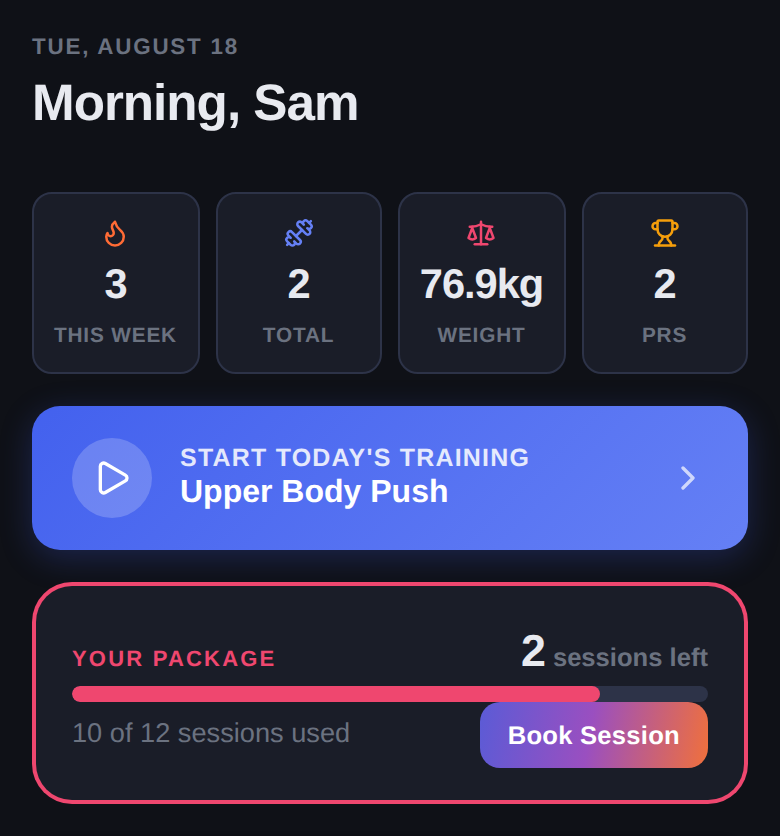
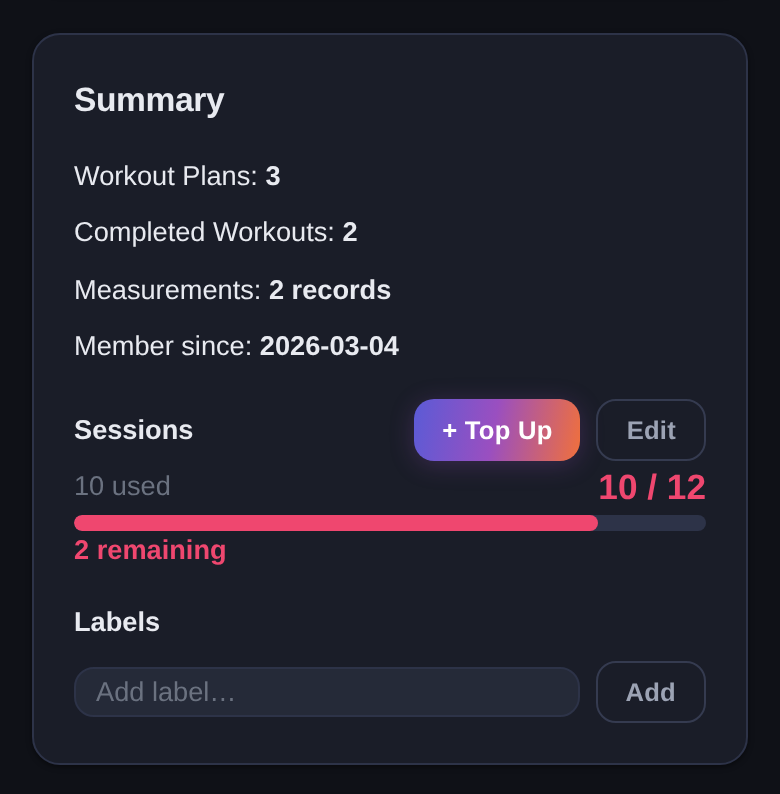
Point landing images 2 and 3 at the trainer's own screens
Sections 2 and 3 address a coach, but the images showed ClientDashboard's
package card and MyWorkoutsPage — screens that exist only in the client app. A
trainer evaluating the product would not recognise either. Image 2 is now the
session balance and Top Up on ClientDetailPage, image 3 the plan list with
Create Plan on WorkoutPlansPage.

Two more defects the render exposed, both live on the trainer's client detail
page today:
- Latest Body Stats iterated the stat object's own keys and filtered only
  'date', so id and addedBy rendered as measurements: a tile reading 'b2cm'
  labelled 'Id'. Now driven off METRICS, with '--' for unmeasured values.
- Completed Workouts filtered logs on a 'completed' field that no workoutLog
  document has, so it read 0 for every client. Counts saved logs, matching
  how ClientDashboard counts the same thing.

Claude-Session: https://claude.ai/code/session_018VLAxMgaDAUHsB9ZDdDGZn

diff --git a/mock/main.jsx b/mock/main.jsx
@@ -11,14 +11,16 @@
    never mounted by the app and never hot-reloaded into it. */
 import React from 'react';
 import { createRoot } from 'react-dom/client';
-import { MemoryRouter } from 'react-router-dom';
+import { MemoryRouter, Routes, Route } from 'react-router-dom';
 import { AppContext } from '../src/context/AppContext';
 import { ThemeProvider } from '../src/context/ThemeContext';
 import { ToastProvider } from '../src/context/ToastContext';
 import TrainerDashboard from '../src/pages/TrainerDashboard';
 import ClientDashboard from '../src/pages/ClientDashboard';
 import MyWorkoutsPage from '../src/pages/MyWorkoutsPage';
-import { exerciseLibrary } from '../src/data/exercises';
+import WorkoutPlansPage from '../src/pages/WorkoutPlansPage';
+import ClientDetailPage from '../src/pages/ClientDetailPage';
+import { exerciseLibrary, equipmentTypes } from '../src/data/exercises';
 import { localToday, localDateAdd } from '../src/utils/dateUtils';
 import '../src/styles/index.css';
 
@@ -37,7 +39,8 @@ const CLIENTS = [
     totalSessions: 10, sessionOffset: 11, intakeCompleted: true },
   // 2 — Renewal: running low but not yet overdrawn.
   { id: 'c2', role: 'client', name: 'Sam Reid', trainerId: 't1',
-    totalSessions: 12, sessionOffset: 10, intakeCompleted: true },
+    totalSessions: 12, sessionOffset: 10, intakeCompleted: true,
+    age: 34, height: 178, goals: 'Build strength, drop body fat', joinDate: '2026-03-04' },
   // 3 — Churn risk: healthy balance, but no log and no completed session for weeks.
   { id: 'c3', role: 'client', name: 'Jamie Wu', trainerId: 't1',
     totalSessions: 20, sessionOffset: 8, intakeCompleted: true },
@@ -122,6 +125,22 @@ const makeCtx = (currentUser) => ({
   getUnreadCount: () => 0,
   sendMessage: async () => {},
   markMessagesRead: async () => {},
+  addWorkoutPlan: async () => {},
+  updateWorkoutPlan: async () => {},
+  deleteWorkoutPlan: async () => {},
+  addWorkoutLog: async () => {},
+  updateWorkoutLog: async () => {},
+  addBodyStat: async () => {},
+  updateBodyStat: async () => {},
+  removeClient: async () => {},
+  addExercise: async () => {},
+  updateExercise: async () => {},
+  addCreditLedgerEntry: async () => {},
+  getCreditLedger: async () => [
+    { id: 'cl1', clientId: 'c1', date: day(-40), qty: 10, rate: 45 },
+  ],
+  getIntakeForm: async () => null,
+  equipmentTypes,
   data: { users: [TRAINER, ...CLIENTS], workoutPlans: PLANS, workoutLogs: LOGS, schedule: SCHEDULE, messages: [], exercises: exerciseLibrary, invoices: [] },
 });
 
@@ -134,12 +153,16 @@ const withDefaults = (ctx) => new Proxy(ctx, {
 
 // Each screen is rendered at phone width inside its own provider tree, exactly as the
 // real app mounts it, and captured by its data-shot id.
-function Screen({ id, width = 390, user, children }) {
+function Screen({ id, width = 390, user, path, element, children }) {
   return (
     <div data-shot={id} style={{ width, background: 'var(--bg)', padding: '16px 16px 24px' }}>
       <AppContext.Provider value={withDefaults(makeCtx(user))}>
         <ToastProvider>
-          <MemoryRouter>{children}</MemoryRouter>
+          <MemoryRouter initialEntries={[path || '/']}>
+            {path
+              ? <Routes><Route path={path.replace(/[^/]+$/, ':clientId')} element={element} /></Routes>
+              : children}
+          </MemoryRouter>
         </ToastProvider>
       </AppContext.Provider>
     </div>
@@ -151,8 +174,12 @@ createRoot(document.getElementById('root')).render(
     <ThemeProvider>
       <div style={{ display: 'flex', gap: 24, alignItems: 'flex-start', padding: 24, background: '#0b0d12' }}>
         <Screen id="dashboard" user={TRAINER}><TrainerDashboard /></Screen>
-        <Screen id="sessions" user={CLIENTS[1]}><ClientDashboard /></Screen>
-        <Screen id="plan" user={CLIENTS[1]}><MyWorkoutsPage /></Screen>
+        {/* Sections 2 and 3 of the landing page address the trainer, so they show the
+            trainer's own screens — the client-side equivalents (ClientDashboard's package
+            card, MyWorkoutsPage) are what the client sees, not what a coach evaluating the
+            product would recognise. */}
+        <Screen id="sessions" user={TRAINER} path="/clients/c2" element={<ClientDetailPage />} />
+        <Screen id="plan" user={TRAINER}><WorkoutPlansPage /></Screen>
       </div>
     </ThemeProvider>
   </React.StrictMode>,

diff --git a/src/pages/ClientDetailPage.jsx b/src/pages/ClientDetailPage.jsx
@@ -422,21 +422,33 @@ export default function ClientDetailPage() {
         <div className="grid-2">
           <div className="card">
             <h3 className="card-title mb-16">Latest Body Stats</h3>
+            {/* Driven off METRICS, not off the entry's own keys. A bodyStat doc also
+                carries id/date/addedBy, and iterating the object rendered those as
+                measurements — a tile reading "b2cm" labelled "Id". Unmeasured metrics
+                show '--' rather than the string "undefinedcm". */}
             {latestStat ? (
               <div className="grid-3">
-                {Object.entries(latestStat).filter(([k]) => k !== 'date').map(([key, val]) => (
-                  <div key={key} className="text-center">
-                    <div className="fw-bold">{val}{key === 'bodyFat' ? '%' : key === 'weight' ? 'kg' : 'cm'}</div>
-                    <div className="text-sm text-muted">{key === 'bodyFat' ? 'Body Fat' : key.charAt(0).toUpperCase() + key.slice(1)}</div>
-                  </div>
-                ))}
+                {METRICS.map(({ key, label, unit }) => {
+                  const val = latestStat[key];
+                  const missing = val === null || val === undefined || val === '';
+                  return (
+                    <div key={key} className="text-center">
+                      <div className="fw-bold">{missing ? '--' : `${val}${unit}`}</div>
+                      <div className="text-sm text-muted">{label}</div>
+                    </div>
+                  );
+                })}
               </div>
             ) : <p className="text-muted">No stats recorded yet</p>}
           </div>
           <div className="card">
             <h3 className="card-title mb-16">Summary</h3>
             <p className="text-sm">Workout Plans: <strong>{plans.length}</strong></p>
-            <p className="text-sm mt-8">Completed Workouts: <strong>{logs.filter(l => l.completed).length}</strong></p>
+            {/* A workoutLog document has no `completed` field — only the individual sets
+                inside it do. Filtering on it counted 0 for every client ever. A saved log
+                is a completed workout, which is also how ClientDashboard's own total is
+                counted, so the two screens now agree. */}
+            <p className="text-sm mt-8">Completed Workouts: <strong>{logs.length}</strong></p>
             <p className="text-sm mt-8">Measurements: <strong>{stats.length} records</strong></p>
             <p className="text-sm mt-8">Member since: <strong>{client.joinDate}</strong></p>
             <div className="mt-16">
